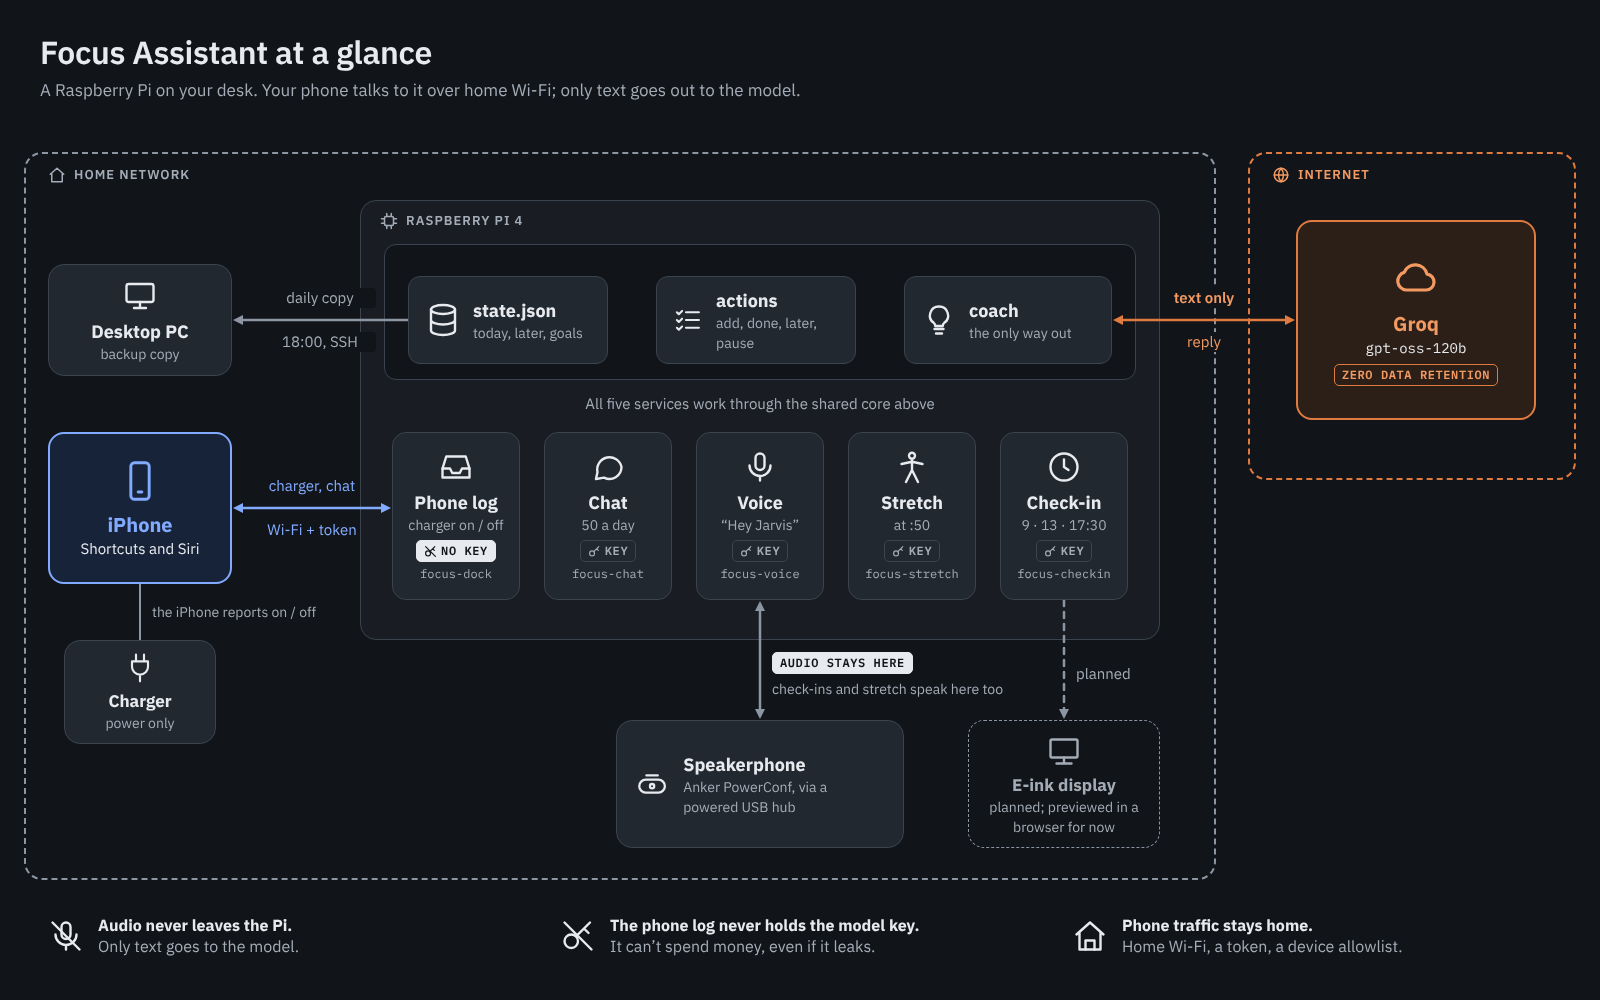
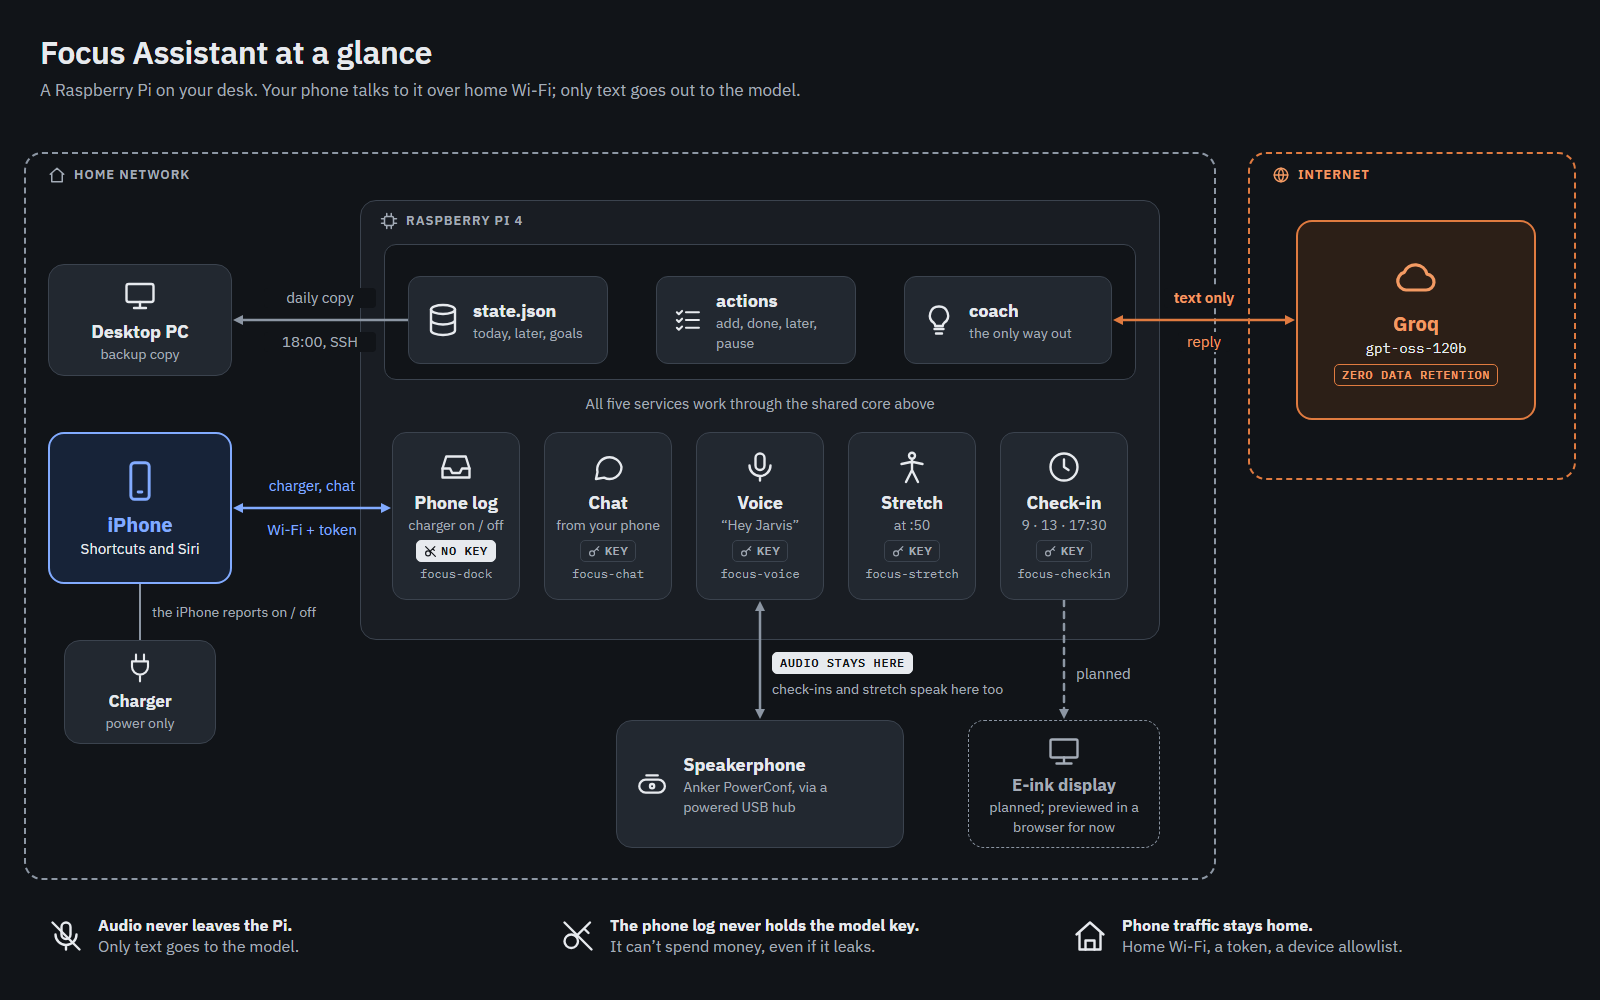
Drop the removed chat limit from the at-a-glance diagram
The Chat box still said "50 a day" after the daily limit was removed;
it now says "from your phone". A voice test's sample error no longer
quotes the old limit either.

diff --git a/docs/diagrams/architecture-simple.html b/docs/diagrams/architecture-simple.html
@@ -48,7 +48,7 @@ a{color:#1c5bc9}a:hover{color:#123f8f}
 
 <!-- services -->
 <div style="position: absolute; left: 392px; top: 432px; width: 128px; height: 168px; box-sizing: border-box; display: flex; flex-direction: column; align-items: center; justify-content: center; gap: 6px; padding: 10px 8px; text-align: center; background: var(--card); border: 1.5px solid var(--border); border-radius: 14px"><svg width="36" height="36" viewBox="0 0 24 24" fill="none" stroke="currentColor" stroke-width="1.6" stroke-linecap="round" stroke-linejoin="round" aria-hidden="true"><path d="M3 13h5l1.5 3h5L16 13h5"></path><path d="M5.5 5h13L21 13v6H3v-6z"></path></svg><span><b style="font-size: 18px">Phone log</b><br><span class="s" style="font-size: 14px">charger on / off</span><br><span class="kb no" style="margin-top: 6px"><svg width="13" height="13" viewBox="0 0 24 24" fill="none" stroke="currentColor" stroke-width="2.2" stroke-linecap="round" stroke-linejoin="round" aria-hidden="true"><circle cx="7.5" cy="15.5" r="4.5"></circle><path d="M10.7 12.3L20 3M16 7l3 3M3 3l18 18"></path></svg>NO KEY</span><br><span style="font: 12px/18px 'IBM Plex Mono', monospace; color: var(--muted)">focus-dock</span></span></div>
-<div style="position: absolute; left: 544px; top: 432px; width: 128px; height: 168px; box-sizing: border-box; display: flex; flex-direction: column; align-items: center; justify-content: center; gap: 6px; padding: 10px 8px; text-align: center; background: var(--card); border: 1.5px solid var(--border); border-radius: 14px"><svg width="36" height="36" viewBox="0 0 24 24" fill="none" stroke="currentColor" stroke-width="1.6" stroke-linecap="round" stroke-linejoin="round" aria-hidden="true"><path d="M21 12a8 8 0 0 1-11.6 7.1L4 20l1-4.6A8 8 0 1 1 21 12z"></path></svg><span><b style="font-size: 18px">Chat</b><br><span class="s" style="font-size: 14px">50 a day</span><br><span class="kb" style="margin-top: 6px"><svg width="13" height="13" viewBox="0 0 24 24" fill="none" stroke="currentColor" stroke-width="2.2" stroke-linecap="round" stroke-linejoin="round" aria-hidden="true"><circle cx="7.5" cy="15.5" r="4.5"></circle><path d="M10.7 12.3L20 3M16 7l3 3"></path></svg>KEY</span><br><span style="font: 12px/18px 'IBM Plex Mono', monospace; color: var(--muted)">focus-chat</span></span></div>
+<div style="position: absolute; left: 544px; top: 432px; width: 128px; height: 168px; box-sizing: border-box; display: flex; flex-direction: column; align-items: center; justify-content: center; gap: 6px; padding: 10px 8px; text-align: center; background: var(--card); border: 1.5px solid var(--border); border-radius: 14px"><svg width="36" height="36" viewBox="0 0 24 24" fill="none" stroke="currentColor" stroke-width="1.6" stroke-linecap="round" stroke-linejoin="round" aria-hidden="true"><path d="M21 12a8 8 0 0 1-11.6 7.1L4 20l1-4.6A8 8 0 1 1 21 12z"></path></svg><span><b style="font-size: 18px">Chat</b><br><span class="s" style="font-size: 14px">from your phone</span><br><span class="kb" style="margin-top: 6px"><svg width="13" height="13" viewBox="0 0 24 24" fill="none" stroke="currentColor" stroke-width="2.2" stroke-linecap="round" stroke-linejoin="round" aria-hidden="true"><circle cx="7.5" cy="15.5" r="4.5"></circle><path d="M10.7 12.3L20 3M16 7l3 3"></path></svg>KEY</span><br><span style="font: 12px/18px 'IBM Plex Mono', monospace; color: var(--muted)">focus-chat</span></span></div>
 <div style="position: absolute; left: 696px; top: 432px; width: 128px; height: 168px; box-sizing: border-box; display: flex; flex-direction: column; align-items: center; justify-content: center; gap: 6px; padding: 10px 8px; text-align: center; background: var(--card); border: 1.5px solid var(--border); border-radius: 14px"><svg width="36" height="36" viewBox="0 0 24 24" fill="none" stroke="currentColor" stroke-width="1.6" stroke-linecap="round" stroke-linejoin="round" aria-hidden="true"><rect x="9" y="3" width="6" height="11" rx="3"></rect><path d="M5 11a7 7 0 0 0 14 0M12 18v3"></path></svg><span><b style="font-size: 18px">Voice</b><br><span class="s" style="font-size: 14px">“Hey Jarvis”</span><br><span class="kb" style="margin-top: 6px"><svg width="13" height="13" viewBox="0 0 24 24" fill="none" stroke="currentColor" stroke-width="2.2" stroke-linecap="round" stroke-linejoin="round" aria-hidden="true"><circle cx="7.5" cy="15.5" r="4.5"></circle><path d="M10.7 12.3L20 3M16 7l3 3"></path></svg>KEY</span><br><span style="font: 12px/18px 'IBM Plex Mono', monospace; color: var(--muted)">focus-voice</span></span></div>
 <div style="position: absolute; left: 848px; top: 432px; width: 128px; height: 168px; box-sizing: border-box; display: flex; flex-direction: column; align-items: center; justify-content: center; gap: 6px; padding: 10px 8px; text-align: center; background: var(--card); border: 1.5px solid var(--border); border-radius: 14px"><svg width="36" height="36" viewBox="0 0 24 24" fill="none" stroke="currentColor" stroke-width="1.6" stroke-linecap="round" stroke-linejoin="round" aria-hidden="true"><circle cx="12" cy="4.5" r="2"></circle><path d="M12 7.5v6.5M8 22l4-8 4 8M5 10l7-1.5 7 1.5"></path></svg><span><b style="font-size: 18px">Stretch</b><br><span class="s" style="font-size: 14px">at :50</span><br><span class="kb" style="margin-top: 6px"><svg width="13" height="13" viewBox="0 0 24 24" fill="none" stroke="currentColor" stroke-width="2.2" stroke-linecap="round" stroke-linejoin="round" aria-hidden="true"><circle cx="7.5" cy="15.5" r="4.5"></circle><path d="M10.7 12.3L20 3M16 7l3 3"></path></svg>KEY</span><br><span style="font: 12px/18px 'IBM Plex Mono', monospace; color: var(--muted)">focus-stretch</span></span></div>
 <div style="position: absolute; left: 1000px; top: 432px; width: 128px; height: 168px; box-sizing: border-box; display: flex; flex-direction: column; align-items: center; justify-content: center; gap: 6px; padding: 10px 8px; text-align: center; background: var(--card); border: 1.5px solid var(--border); border-radius: 14px"><svg width="36" height="36" viewBox="0 0 24 24" fill="none" stroke="currentColor" stroke-width="1.6" stroke-linecap="round" stroke-linejoin="round" aria-hidden="true"><circle cx="12" cy="12" r="9"></circle><path d="M12 7v5l3 2"></path></svg><span><b style="font-size: 18px">Check-in</b><br><span class="s" style="font-size: 14px">9 · 13 · 17:30</span><br><span class="kb" style="margin-top: 6px"><svg width="13" height="13" viewBox="0 0 24 24" fill="none" stroke="currentColor" stroke-width="2.2" stroke-linecap="round" stroke-linejoin="round" aria-hidden="true"><circle cx="7.5" cy="15.5" r="4.5"></circle><path d="M10.7 12.3L20 3M16 7l3 3"></path></svg>KEY</span><br><span style="font: 12px/18px 'IBM Plex Mono', monospace; color: var(--muted)">focus-checkin</span></span></div>

diff --git a/tests/test_voice.py b/tests/test_voice.py
@@ -150,9 +150,9 @@ def test_turn_with_nothing_understood(cfg):
 
 
 def test_turn_speaks_coach_errors(cfg):
-    r = Recorder(cfg, fail="Daily chat limit (50) reached")
+    r = Recorder(cfg, fail="The coach took too many steps")
     r.voice.turn(lambda: False)
-    assert r.spoken == ["Sorry, that didn't work. Daily chat limit (50) reached"]
+    assert r.spoken == ["Sorry, that didn't work. The coach took too many steps"]
 
 
 SILENCE = b"\x00\x00" * voice.CHUNK_SAMPLES
